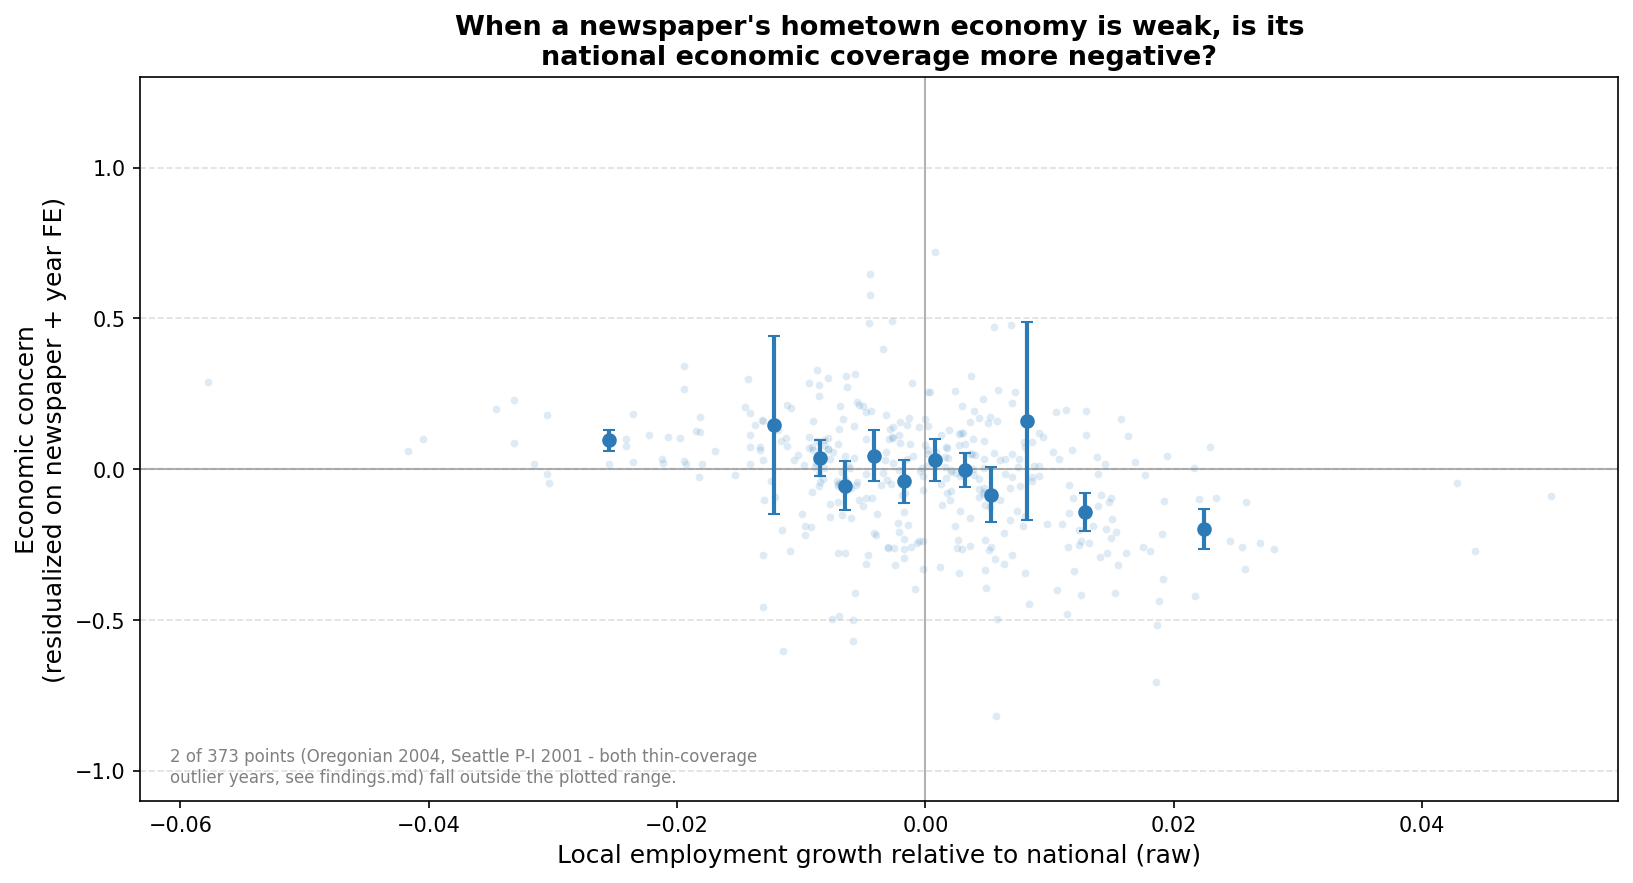
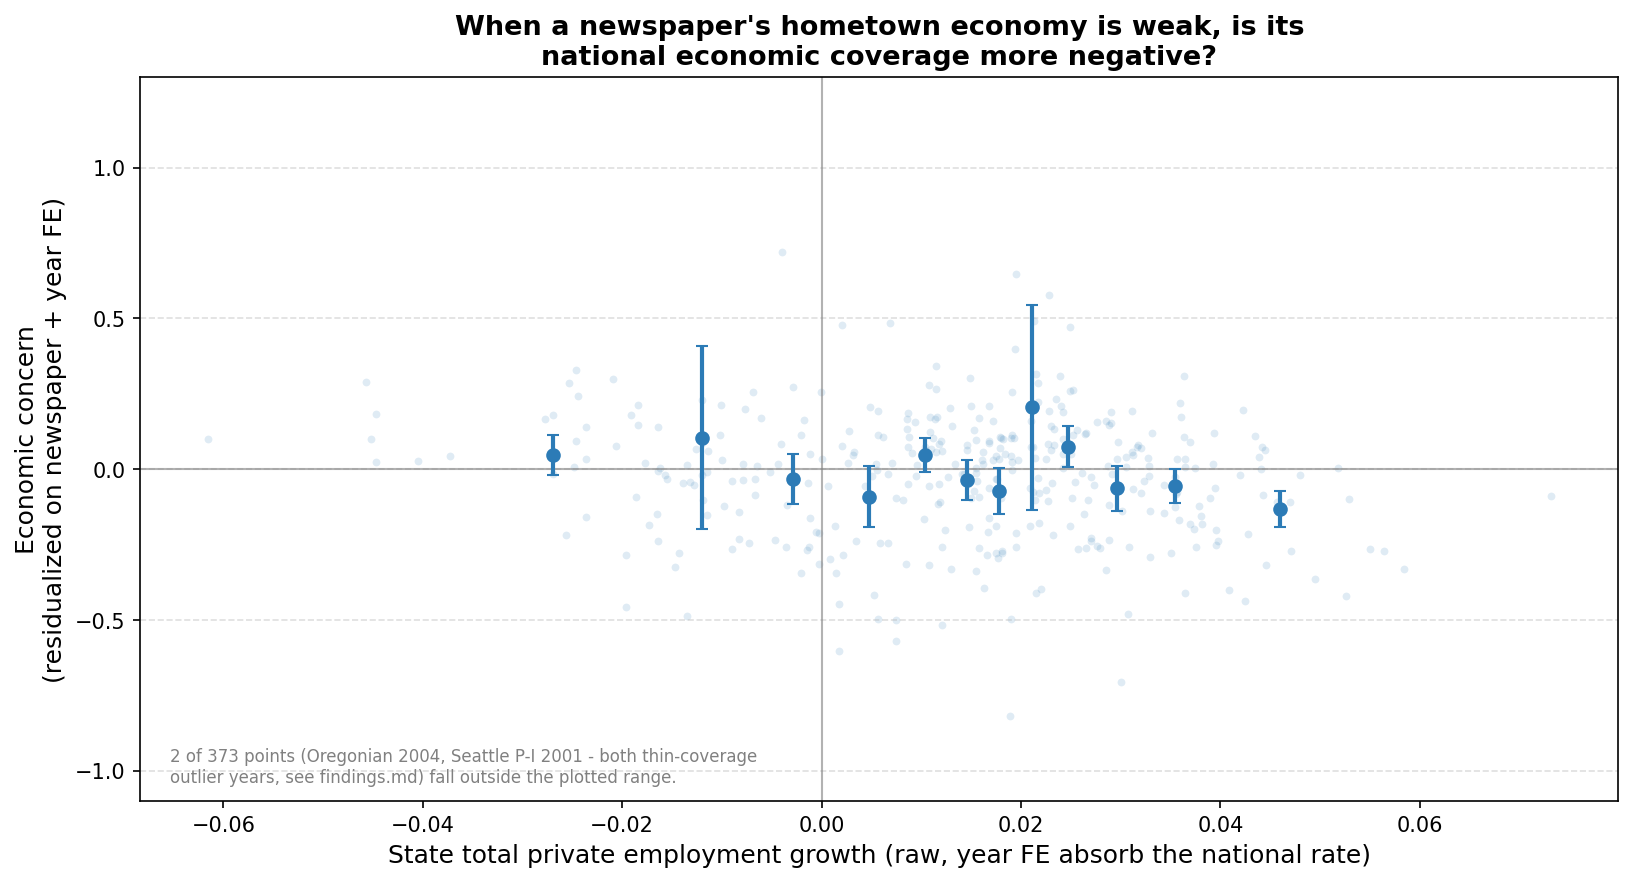
Update newspaper-hometown-economy post: raw (non-relative) regressors
Per author request, switch the headline equation and figures from
relative_local_employment_growth/relative_journalism_growth to raw state
employment/newspaper growth - mathematically equivalent given the FE
already absorb the national rate, but a less pre-processed spec. Updates
the coefficient table, timing diagnostic numbers, and the concrete
NYT/WaPo illustration (now 1982/2002, replacing 1994).

diff --git a/_posts/2026-08-27-newspaper-hometown-economy.md b/_posts/2026-08-27-newspaper-hometown-economy.md
@@ -32,22 +32,22 @@ The design is a newspaper × year panel with newspaper and year fixed effects:
 EconomicConcern_it = α_i + γ_t + β1·LocalEconGrowth_it + β2·JournalismGrowth_it + ε_it
 ```
 
-where `α_i` is a newspaper fixed effect, `γ_t` a year fixed effect, `LocalEconGrowth_it` is the newspaper's state's total private employment growth relative to the national rate that year, `JournalismGrowth_it` is that state's newspaper-publishing employment growth relative to its own total private employment growth, and `ε_it` is an error term clustered by newspaper. The year fixed effects absorb anything common to every newspaper in a given year — national GDP, national unemployment, national political events, any shared shift in how "concerned" economic sentiment sounds. What's left is comparisons like: in a given year, was this newspaper more negative than others, when its own state's economy or its own state's newspaper industry was unusually weak that year?
+where `α_i` is a newspaper fixed effect, `γ_t` a year fixed effect, `LocalEconGrowth_it` is the newspaper's state's total private employment growth that year, `JournalismGrowth_it` is that state's newspaper-publishing employment growth that year, and `ε_it` is an error term clustered by newspaper. Neither variable is pre-differenced against a national or local benchmark — the year fixed effects already absorb anything common to every newspaper in a given year (national GDP, national unemployment, national political events, any shared shift in how "concerned" economic sentiment sounds), so building that benchmarking into the regressors themselves would be redundant. What's left is comparisons like: in a given year, was this newspaper more negative than others, when its own state's economy or its own state's newspaper industry was unusually weak that year?
 
 | Regressor | Coefficient | Clustered SE | p |
 |---|---|---|---|
-| `LocalEconGrowth` (β1) | -8.37 | 2.84 | 0.003 |
+| `LocalEconGrowth` (β1) | -7.48 | 2.45 | 0.002 |
 | `JournalismGrowth` (β2) | -0.89 | 0.46 | 0.052 |
 
 Both point the expected direction: weaker conditions, more negative sentiment. The local-economy relationship is the larger and more precisely estimated of the two, and holds up everywhere it's tested below. The journalism-specific relationship — the sharper test, since it isolates a newspaper's own industry from the city around it — is real but smaller and sits right at the edge of conventional significance.
 
-<a href="/assets/images/hometown_analysis2_binscatter.png"><img src="/assets/images/hometown_analysis2_binscatter.png" alt="Binned scatter of economic concern (residualized on newspaper and year fixed effects and local employment growth) against relative journalism employment growth, showing a modest negative slope with substantial scatter"></a>
+<a href="/assets/images/hometown_analysis2_binscatter.png"><img src="/assets/images/hometown_analysis2_binscatter.png" alt="Binned scatter of economic concern (residualized on newspaper and year fixed effects and local employment growth) against state newspaper employment growth, showing a modest negative slope with substantial scatter"></a>
 
-The underlying scatter is noisy — appropriately so, given the p-value — but the binned means trend downward as relative journalism growth improves, most visibly through the middle of the distribution where most of the data sits.
+The underlying scatter is noisy — appropriately so, given the p-value — but the binned means trend downward as journalism employment growth improves, most visibly through the middle of the distribution where most of the data sits.
 
-**How much does this matter in practice?** Take 1994, a year when Washington Post's newsroom shrank 8.2% relative to DC's overall economy while the New York Times's held almost flat, down just 0.7% relative to New York's economy — a 7.5-point gap, about the size of the 10th-to-90th-percentile spread of this variable across the whole panel. Applying the coefficient above to that gap alone predicts the Times's sentiment should read about 0.067 points less negative than the Post's that year — roughly **a third of a standard deviation** of the within-panel variation in economic concern. The actual gap that year: the Times came in 0.065 points less negative than the Post — almost exactly what the model implied, and in this particular year local economic conditions in the two markets were nearly identical, so journalism conditions are doing most of the work.
+**How much does this matter in practice?** Take 2002, a year when the New York Times's newsroom shrank 6.4% while the Washington Post's DC newsroom actually grew slightly — a roughly 5-point gap, about the size of a typical (one-standard-deviation) swing in this variable across the panel. Applying the coefficient above to that gap alone predicts the Times's sentiment should read about 0.043 points more negative than the Post's that year — roughly **a fifth of a standard deviation** of the within-panel variation in economic concern. The actual gap that year: the Times came in 0.036 points more negative than the Post — close to what the model implied.
 
-<a href="/assets/images/hometown_nyt_wapo_divergence.png"><img src="/assets/images/hometown_nyt_wapo_divergence.png" alt="NYT vs Washington Post journalism-growth divergence and economic concern in 1982 and 1994, showing predicted and actual concern gaps"></a>
+<a href="/assets/images/hometown_nyt_wapo_divergence.png"><img src="/assets/images/hometown_nyt_wapo_divergence.png" alt="NYT vs Washington Post newspaper-employment-growth divergence and economic concern in 1982 and 2002, showing predicted and actual concern gaps"></a>
 
 That example is a useful gut check on size, but it comes with an important asterisk: the coefficient it uses is estimated overwhelmingly off local papers — 19 of the 21 newspapers in the sample. When the New York Times and Washington Post are analyzed **on their own**, using only their own 73 combined newspaper-years, the journalism-specific coefficient flips sign and loses any statistical support (+0.61, not significant, vs. -1.16, p≈0.03, for the 19 local papers). That's exactly the cleaner test this design was meant to enable, since these two papers' content is genuinely dominated by the national economy rather than local stories about their own city's downturn — and on that harder test, the effect doesn't independently replicate. The most defensible reading: local papers' economic sentiment may partly reflect them running more stories about their own city's economic troubles, not necessarily journalists' personal experience coloring how they see the national economy specifically. Hopkins et al.'s replication data doesn't include article-level metadata that would let us separate national- from local-economy stories directly, so this remains an open limitation rather than something resolved here.
 
@@ -59,7 +59,7 @@ That example is a useful gut check on size, but it comes with an important aster
 
 <a href="/assets/images/hometown_timing_placebo.png"><img src="/assets/images/hometown_timing_placebo.png" alt="Timing diagnostic bar chart showing the contemporaneous and lagged coefficients are meaningfully negative while the led (future) placebo coefficient is small and statistically indistinguishable from zero"></a>
 
-Contemporaneous journalism growth: -0.89 (p=0.052). One year lagged: -0.54 (p=0.16). One year **led** — next year's journalism conditions "predicting" this year's sentiment, the placebo test — comes in at -0.12 and is nowhere near significant (p=0.67). Unlike the national analysis, the future doesn't predict the present nearly as well as the present does.
+Contemporaneous journalism growth: -0.89 (p=0.052). One year lagged: -0.72 (p=0.14). One year **led** — next year's journalism conditions "predicting" this year's sentiment, the placebo test — comes in at -0.11 and is nowhere near significant (p=0.78). Unlike the national analysis, the future doesn't predict the present nearly as well as the present does.
 
 **Stability.** Dropping each of the 21 newspapers one at a time, the journalism coefficient stays in a narrow band (-1.13 to -0.50) and never flips sign:
 
